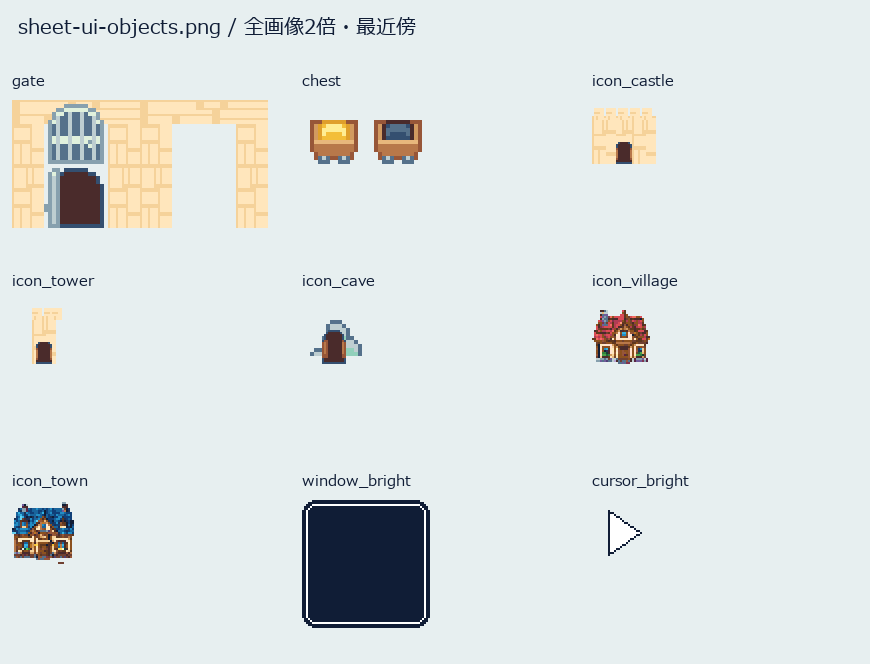
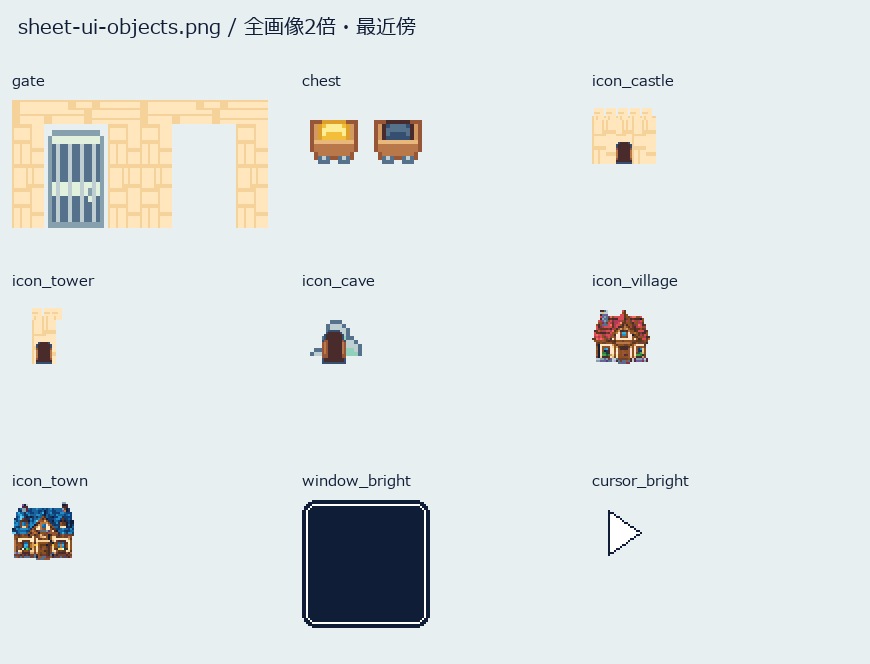
新素材の寝台・門の切り出しと減色後の模様を補正
最終画像確認で見つけた別部品の混入を修正し、階段の奥行き、水面・木床の模様、建物の境界小片を調整した。同じ画素のPNGは再圧縮せず保持する。旧108素材、base.gpl、ゲーム画面、保護された検査は変更していない。

Changed region(s): [[0.031, 0.1506, 0.1241, 0.3614]]

diff --git a/tools/import_bright_assets.py b/tools/import_bright_assets.py
@@ -1,6 +1,7 @@
 #!/usr/bin/env python3
 """承認済みの新素材だけを切り出し・減色・登録する。既存画像は上書きしない。"""
 from pathlib import Path
+from collections import deque
 import json
 import hashlib
 import numpy as np
@@ -59,7 +60,13 @@ def save(rel, image, kind, provenance, **extra):
     dest = ROOT / rel
     dest.parent.mkdir(parents=True, exist_ok=True)
     image = quantize(image, extra.get('max_colors', 64))
-    image.save(dest)
+    # 同じ画素なら既存の圧縮バイト列を保ち、PNGライブラリ差による版変更を避ける。
+    same = False
+    if dest.exists():
+        with Image.open(dest) as old:
+            same = old.size == image.size and old.convert('RGBA').tobytes() == image.tobytes()
+    if not same:
+        image.save(dest)
     entry = {'path': rel, 'kind': kind, 'size': list(image.size), 'max_colors': 64,
              'status': 'required', 'palette': PALETTE, **provenance, **extra}
     ENTRIES[:] = [e for e in ENTRIES if e['path'] != rel]
@@ -133,10 +140,15 @@ def import_tiles():
         # 水は水色、道路は明るい土色へ。形状は元部品のまま。
         if id_=='water' or id_.startswith('shore_'):
             a=np.array(image)
-            mask=(a[:,:,2]>a[:,:,0]+15)&(a[:,:,1]>a[:,:,0]+15)
-            a[mask,:3]=np.array([54,179,226]);image=Image.fromarray(a)
+            rgb=a[:,:,:3].astype(int)
+            mask=(rgb[:,:,2]>rgb[:,:,0]+15)&(rgb[:,:,1]>rgb[:,:,0]+15)
+            light=mask&(rgb[:,:,0]>120)
+            a[mask,:3]=[54,179,226];a[light,:3]=[102,208,240];image=Image.fromarray(a)
         if id_=='road':
             a=np.array(image);a[:,:,:3]=np.minimum(a[:,:,:3].astype(int)+[40,40,28],255);image=Image.fromarray(a)
+        if id_=='wood_floor':
+            a=np.array(image);light=a[:,:,0]>=175
+            a[light,:3]=[184,120,74];a[~light,:3]=[151,86,56];image=Image.fromarray(a)
         result[id_]=store(id_,image,[list(pos)])
     forest=Image.new('RGBA',(32,32))
     for xy in [(0,0),(14,0),(7,9)]:
@@ -148,21 +160,23 @@ def import_tiles():
     for y in [0,32]:
         bridge.alpha_composite(tile(45,23),(0,y));bridge.alpha_composite(tile(45,23),(32,y))
     ENTRIES.pop();result['bridge']=store('bridge',bridge,[[8,2],[45,23]])
-    for id_,cells in {'shelf':[[(48,12)],[(48,13)]], 'bed':[[(15,4)],[(15,5)]],
+    for id_,cells in {'shelf':[[(48,12)],[(48,13)]],
                       'rug':[[(10,7),(12,7)],[(10,9),(12,9)]]}.items():
         result[id_]=store(id_,block(cells),cells)
+    result['bed']=store('bed',tile(17,3).resize((32,64),Image.Resampling.NEAREST),[[17,3]])
     # 階段は同じ石材部品を縮めて段状に重ねる。上りは奥へ高く、下りは暗い穴へ低くする。
     for id_,descending in [('stairs_up',False),('stairs_down',True)]:
         out=tile(7,0)
+        if descending:ImageDraw.Draw(out).rectangle((2,2,29,29),fill='#1E3154')
         for i in range(5):
-            width=28-i*4 if not descending else 12+i*4
+            width=28-i*4 if descending else 12+i*4
             step=tile(30,16).resize((width,5),Image.Resampling.NEAREST)
             out.alpha_composite(step,((32-width)//2,3+i*5))
         result[id_]=store(id_,out,[[7,0],[30,16]])
     # 家・宿・二つの店に、個別の屋根色・壁・扉・窓・看板を用意する。
     for id_,roof_color,door,window,sign in [
         ('house',(217,76,85),(38,2),(44,4),None),
-        ('inn',(54,179,226),(38,0),(47,4),(15,4)),
+        ('inn',(54,179,226),(33,5),(47,4),(16,3)),
         ('item_shop',(72,164,73),(38,3),(46,4),(55,14)),
         ('weapon_shop',(223,159,43),(39,2),(45,4),(15,0)),
     ]:
@@ -187,8 +201,8 @@ def import_tiles():
         for x in [0,48]:
             for y in [0,32]:gate.alpha_composite(tile(7,2).resize((16,32),Image.Resampling.NEAREST),(ox+x,y))
         gate.alpha_composite(tile(7,2).resize((64,12),Image.Resampling.NEAREST),(ox,0))
-        if state==0:gate.alpha_composite(block([[(32,3)],[(32,4)]]),(ox+16,0))
-    save('assets/objects/gate.png',gate,'object',imported([[7,2],[32,3],[32,4]]),frame=[64,64],grid=[2,1])
+        if state==0:gate.alpha_composite(tile(33,3).resize((32,52),Image.Resampling.NEAREST),(ox+16,12))
+    save('assets/objects/gate.png',gate,'object',imported([[7,2],[33,3]]),frame=[64,64],grid=[2,1])
     chest=block([[(49,21),(49,22)]])
     # 元部品の接地を状態間でそろえる。
     aligned=Image.new('RGBA',(64,32))
@@ -233,7 +247,24 @@ def detailed_buildings_and_trees():
         scale=min(124/part.width,124/part.height)
         part=part.resize((round(part.width*scale),round(part.height*scale)),Image.Resampling.NEAREST)
         out=Image.new('RGBA',(128,128));out.alpha_composite(part,((128-part.width)//2,128-part.height))
-        saved=save(f'assets/tiles/bright_{id_}_exterior.png',out,'tileset',generated('assets/source_records/generated-bright.json#buildings','2×2分割、128×128へ縮小配置、bright.gplへ減色、アルファ二値化'))
+        # 分割境界に混ざった隣の建物の小片を除く。主要な連結成分は保持する。
+        a=np.array(out);unseen=a[:,:,3]>=128;components=[]
+        for y,x in np.argwhere(unseen):
+            if not unseen[y,x]:continue
+            queue=deque([(int(x),int(y))]);unseen[y,x]=False;component=[]
+            while queue:
+                xx,yy=queue.popleft();component.append((xx,yy))
+                for dx,dy in [(1,0),(-1,0),(0,1),(0,-1),(1,1),(-1,1),(1,-1),(-1,-1)]:
+                    nx,ny=xx+dx,yy+dy
+                    if 0<=nx<128 and 0<=ny<128 and unseen[ny,nx]:
+                        unseen[ny,nx]=False;queue.append((nx,ny))
+            components.append(component)
+        minimum=max(20,int(max(map(len,components))*.005))
+        for component in components:
+            if len(component)<minimum:
+                for x,y in component:a[y,x]=0
+        out=Image.fromarray(a)
+        saved=save(f'assets/tiles/bright_{id_}_exterior.png',out,'tileset',generated('assets/source_records/generated-bright.json#buildings','2×2分割、128×128へ縮小配置、隣接コマ由来の小片除去、bright.gplへ減色、アルファ二値化'))
         if id_ in {'house','inn'}:
             icon=saved.resize((32,32),Image.Resampling.NEAREST)
             name='village' if id_=='house' else 'town'
